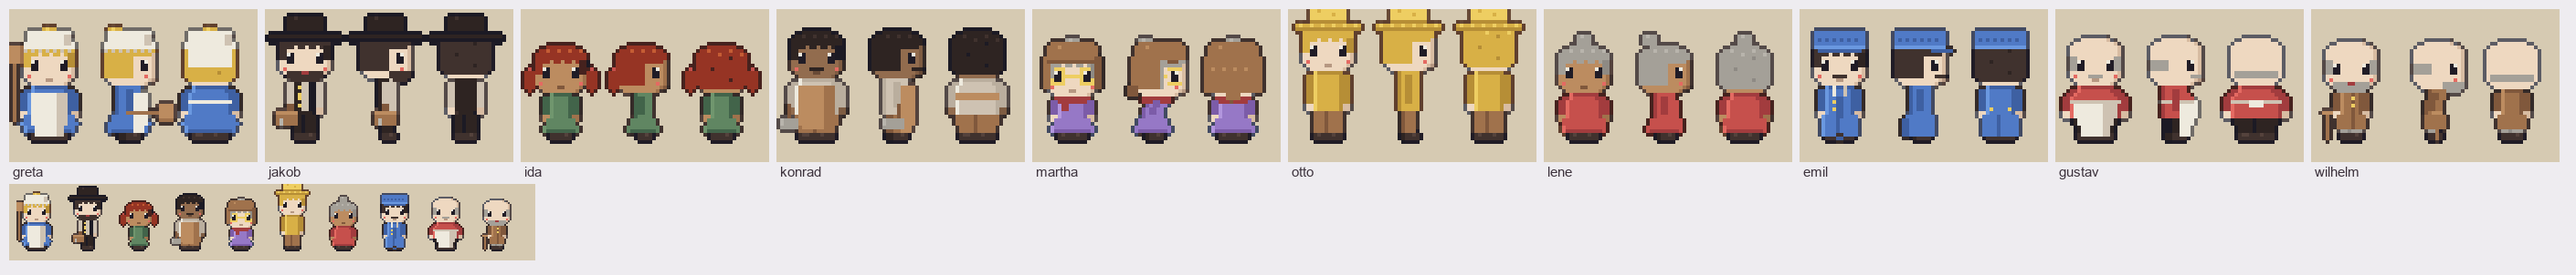
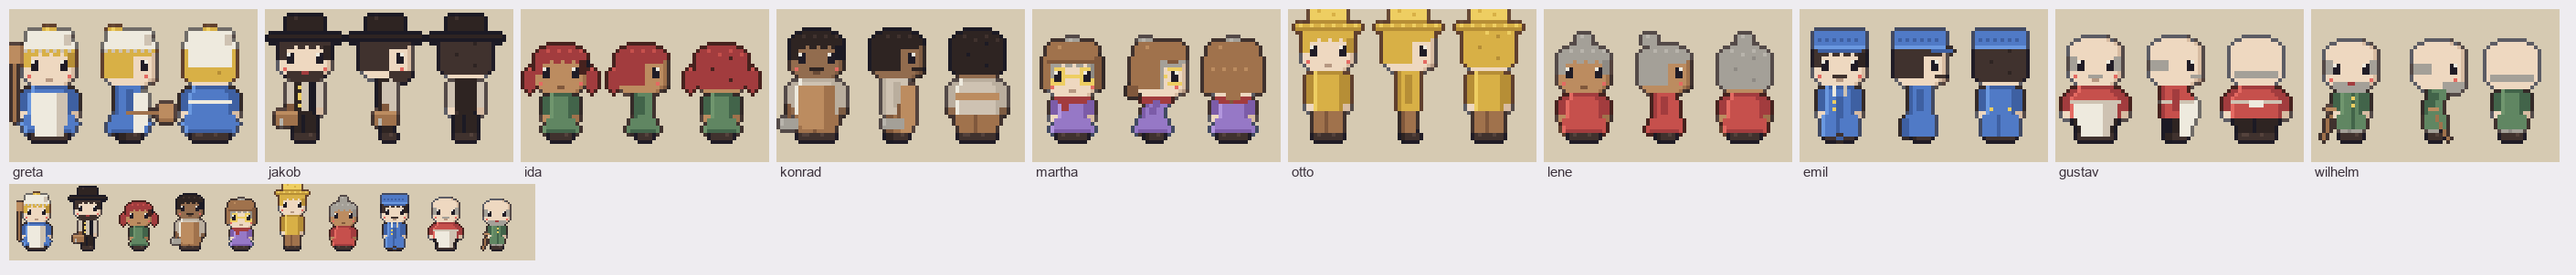
Dorf: Stehen mit Stock, rote Haare glühen nachts nicht mehr
Im Stand setzt die Figur den Stock schräg vor sich auf, beim Gehen pendelt
er (Wunsch des Users). Farbreihe haar-rot ohne die Glut-Farben, die nachts
leuchten. Wilhelm im Lodenmantel; drei Ideen ins Backlog.

diff --git a/tools/figure_art.py b/tools/figure_art.py
@@ -87,8 +87,8 @@ def geom(v, fr, breathe):
     return dict(by=by, ly=by + 9, a0=by + 1, bob=1 if fr in (1, 3) or breathe else 0)
 
 
-def draw_layer(layer, kind, v, fr, breathe=0):
-    """Eine Ebene in Ansicht v ('f', 'b', 's'), Gehbild fr (0–3)."""
+def draw_layer(layer, kind, v, fr, breathe=0, stand=False):
+    """Eine Ebene in Ansicht v ('f', 'b', 's'), Gehbild fr (0–3); stand: Standbild oder atmen (nicht Gehen)."""
     g = geom(v, fr, breathe)
     by, ly, a0, bob = g['by'], g['ly'], g['a0'], g['bob']
     yb, ey = Y + bob, Y + bob + 7
@@ -306,9 +306,16 @@ def draw_layer(layer, kind, v, fr, breathe=0):
             s.r(hx, hy, 9, 1, WOOD[1]); s.r(hx + 8, hy - 2, 4, 5, WOOD[0]); s.r(hx + 8, hy + 2, 4, 1, WOOD[1])
         elif kind == 'hammer':
             s.r(hx + (0 if v == 'f' else 1), hy - 1, 1, 5, WOOD[2]); s.r(hx - 2, hy + 3, 5, 2, IRON[1]); s.p(hx - 2, hy + 3, IRON[0])
-        elif kind == 'stock':  # Gehstock: vorn neben dem Körper, von der Seite vor der Hand bis zum Boden
-            sx = CX - 8 if v == 'f' else hx + 2
-            s.r(sx, hy + 1, 1, FOOT + 1 - hy - 1, WOOD[1]); s.r(sx - 1, hy, 3, 1, WOOD[0])
+        elif kind == 'stock':  # Gehstock: im Stand schräg vor sich aufgesetzt, die Hand oben auf dem Griff (Wunsch des
+            # Users 2026-10-28); beim Gehen pendelt er mit dem Schritt
+            if v == 'f':
+                top, tip = CX - 7, CX - 9 if stand else CX - 8
+            else:
+                top, tip = hx + 1, hx + 5 if stand else hx + 1 + [2, 4, 2, 0][fr]
+            n = FOOT - hy
+            for k in range(n):
+                s.p(top + round((tip - top) * (k + 1) / n), hy + 1 + k, WOOD[1])
+            s.r(top - 1, hy - (1 if stand else 0), 3, 1, WOOD[0])
         elif kind == 'hobel':
             s.r(hx - 3, hy + 1, 7, 3, WOOD[1]); s.r(hx - 3, hy + 1, 7, 1, WOOD[0]); s.r(hx, hy - 1, 2, 2, WOOD[2]); s.p(hx - 2, hy + 3, IRON[0])
     return s
@@ -402,7 +409,7 @@ def strip(layer, kind):
     out = [[0] * (FW * 15) for _ in range(FH)]
     for vi, v in enumerate('fbs'):
         for pi, (fr, br) in enumerate(POSES):
-            s = draw_layer(layer, kind, v, fr, br)
+            s = draw_layer(layer, kind, v, fr, br, pi in (0, 4))
             for y in range(FH):
                 for x in range(FW):
                     out[y][(vi * 5 + pi) * FW + x] = s.d[y][x + OX]
@@ -431,7 +438,7 @@ def build(target='assets/testorte/figuren'):
 
 ROWS = {  # Platzhalter 20–22 → Farben (wie die Farbreihen in assets/testorte/pakete.json)
     'haut-hell': (48, 49, 50), 'haut-mittel': (64, 65, 66), 'haut-dunkel': (13, 14, 15),
-    'haar-braun': (51, 52, 53), 'haar-blond': (32, 33, 34), 'haar-rot': (42, 41, 40), 'haar-grau': (58, 59, 60),
+    'haar-braun': (51, 52, 53), 'haar-blond': (32, 33, 34), 'haar-rot': (25, 26, 40), 'haar-grau': (58, 59, 60),
     'haar-schwarz': (52, 53, 1), 'rot': (24, 25, 26), 'blau': (28, 29, 30), 'gelb': (32, 33, 34),
     'lavendel': (36, 37, 38), 'holz': (64, 65, 66), 'leinen': (10, 16, 17), 'schwarz': (52, 53, 1),
     'gruen': (2, 3, 5), 'stein': (58, 59, 60),
@@ -457,7 +464,7 @@ PEOPLE = {  # (Variante, Farbreihe) je Ebene, Statur (Größe, Breite, Bauch, ge
                  haare=('kurz-schnurrbart', 'haar-braun'), kopf=('muetze', 'blau')),
     'gustav': dict(koerper=('normal', 'haut-hell'), beine=('hose', 'schwarz'), oberteil=('wirtsschuerze', 'rot'),
                    haare=('glatze-schnurrbart', 'haar-grau'), statur=(0, 1, 2, 0)),
-    'wilhelm': dict(koerper=('normal', 'haut-hell'), beine=('hose', 'haar-grau'), oberteil=('mantel', 'holz'),
+    'wilhelm': dict(koerper=('normal', 'haut-hell'), beine=('hose', 'haar-grau'), oberteil=('mantel', 'gruen'),
                     haare=('glatze-bart', 'haar-grau'), werkzeug=('stock', None), statur=(0, -1, 0, 1)),
 }
 
@@ -482,7 +489,7 @@ def outline_table():
 OUTC = outline_table()
 
 
-def compose(who, v, fr, breathe=0):
+def compose(who, v, fr, breathe=0, stand=False):
     """Fertiges Bild (SW × (SH + TOP)) wie FigureArt: Ebenen mit Statur und Farbreihe, dann Kontur außen."""
     look = PEOPLE[who]
     st = look.get('statur', (0, 0, 0, 0))
@@ -494,7 +501,7 @@ def compose(who, v, fr, breathe=0):
         kind, row = look[layer]
         g = geom(v, fr, breathe)
         chin = SH if layer in ('haare', 'kopf') else BY + g['bob']
-        px = warp(draw_layer(layer, kind, v, fr, breathe), v, st, chin, layer == 'werkzeug')
+        px = warp(draw_layer(layer, kind, v, fr, breathe, stand), v, st, chin, layer == 'werkzeug')
         for y in range(H2):
             for x in range(SW):
                 c = px[y][x]
@@ -513,8 +520,8 @@ def compose(who, v, fr, breathe=0):
     return out
 
 
-def sprite(who, v, fr, flip=False):
-    idx = compose(who, v, fr)
+def sprite(who, v, fr, flip=False, stand=None):
+    idx = compose(who, v, fr, stand=fr == 0 if stand is None else stand)
     im = Image.new('RGBA', (SW, SH + TOP), (0, 0, 0, 0))
     for y in range(SH + TOP):
         for x in range(SW):
@@ -575,7 +582,7 @@ def gif(target, bg_path):
                 fr = (f // 2) % 4
             items.append((y, who, x, v, fr, flip))
         for y, who, x, v, fr, flip in sorted(items):
-            sp = sprite(who, v, fr, flip).resize((SW * 2, SH * 2), Image.NEAREST)
+            sp = sprite(who, v, fr, flip, len(paths[who]) == 1).resize((SW * 2, (SH + TOP) * 2), Image.NEAREST)
             cx = (SW - 1 - CX) if flip else CX
             im.alpha_composite(sp, (int(round(x * 2 - cx * 2)), int(round(y * 2 - (FOOT + TOP + 1) * 2))))
         frames.append(im.resize((800, 480), Image.NEAREST).convert('RGB').quantize(colors=255))
@@ -591,7 +598,7 @@ def walk(target, bg=(214, 202, 178), z=3):
         v, flip = (('f', False), ('s', False), ('b', False), ('s', True))[f // 8]
         im = Image.new('RGBA', (len(who) * 26 + 4, SH + TOP - 2), bg + (255,))
         for i, w in enumerate(who):
-            im.alpha_composite(sprite(w, v, (f // 2) % 4, flip).crop((OX - 2, 2, OX + FW + 2, SH + TOP)), (2 + i * 26, 0))
+            im.alpha_composite(sprite(w, v, (f // 2) % 4, flip, False).crop((OX - 2, 2, OX + FW + 2, SH + TOP)), (2 + i * 26, 0))
         frames.append(im.resize((im.width * z, im.height * z), Image.NEAREST).convert('RGB').quantize(colors=255))
     frames[0].save(target, save_all=True, append_images=frames[1:], duration=130, loop=0)
     print('GIF:', target)

diff --git a/worlds/testdorf/test_place.cpp b/worlds/testdorf/test_place.cpp
@@ -213,7 +213,7 @@ constexpr FigureLook kTestLooks[] = {
     look_of({{{1, kRowSkinMid}, {2, 0}, {2, kRowRed}, {2, kRowHairGrey}, {0, 0}, {0, 0}}}, {-1, 0, 1, 0}),          // Lene, 66
     look_of({{{1, kRowSkinLight}, {1, kRowBlue}, {8, kRowBlue}, {7, kRowHairBrown}, {3, kRowBlue}, {0, 0}}}),        // Emil, 36
     look_of({{{1, kRowSkinLight}, {1, kRowBlack}, {9, kRowRed}, {9, kRowHairGrey}, {0, 0}, {0, 0}}}, {0, 1, 2, 0}),  // Gustav, 46
-    look_of({{{1, kRowSkinLight}, {1, kRowHairGrey}, {5, kRowWood}, {8, kRowHairGrey}, {0, 0}, {4, 0}}},
+    look_of({{{1, kRowSkinLight}, {1, kRowHairGrey}, {5, kRowGreen}, {8, kRowHairGrey}, {0, 0}, {4, 0}}},
             {0, -1, 0, 1}),                                                                                      // Wilhelm, 66
 };
 constexpr int kTestLookCount = sizeof(kTestLooks) / sizeof(kTestLooks[0]);

diff --git a/docs/ROADMAP.md b/docs/ROADMAP.md
@@ -600,3 +600,6 @@ Neue Wünsche des Users landen hier (mit Datum) und werden einer Version zugeord
 | 2026-10-26 | **Bewohner jünger** (Wunsch des Users): Handwerker und Bauernpaar 10–14 Jahre jünger, sie wissen noch nicht alles, machen aber alles mit Liebe; Lernen sichtbar über Fähigkeitsstufen ([SETTING.md](SETTING.md) Kapitel 3) | ✅ Setting; Fähigkeitsstufen 0.5.9, Startstufen 0.6.x |
 | 2026-10-28 | **Tür-Animation beim Ortswechsel** (Idee des Users): Die Tür geht auf, die Figur tritt hindurch, danach schließt sie sich. Seit 0.5.9 Teil 2 wartet eine Figur an der Tür bis zur nächsten vollen Weltsekunde; die Animation macht dieses Warten (0 bis 1 s) gewollt: Tür öffnet beim Ankommen, Durchtreten an der Sekundengrenze. Zustandsbilder für Türen (0.5.5) und Ortszustände (0.5.8) gibt es schon | 0.5.11 (Figuren gehen von Ort zu Ort), spätestens 0.6.0 mit den echten Türen |
 | 2026-10-28 | **Figuren mit Statur** (Wunsch des Users, Vorlage: Pixelfiguren mit unterschiedlichen Formen, Breiten und Größen): Figuren unterscheiden sich nicht nur in Farbe und Kleidung, sondern in Größe, Breite, Bauch, Haltung und Kleidungsform; Ansatz A „Chibi mit Statur“ gewählt (Skizze [figuren-statur.png](skizzen/figuren-statur.png)) | ✅ 0.5.9 Teil 5 (Wahl des Users) |
+| 2026-10-28 | **Statur im Steckbrief** (Idee aus 0.5.9 Teil 5, nicht gewählt): Figurenliste und Karte nennen die Statur in Worten („groß, kräftig“, „gebeugt, mit Stock“) | 0.6.0 (mit der Startbesetzung) |
+| 2026-10-28 | **Tempo nach Statur** (Idee aus 0.5.9 Teil 5): Gebeugte und Ältere gehen etwas langsamer, Große mit längeren Schritten | 0.5.11 (Tagesgerüst, Simulations-Design) |
+| 2026-10-28 | **Kinder-Statur** (Idee aus 0.5.9 Teil 5): Stufe „Kind“ mit kleinerem Kopf für Zugezogene mit Kindern (Startbesetzung ohne Kinder) | mit dem ersten Zuzug |
